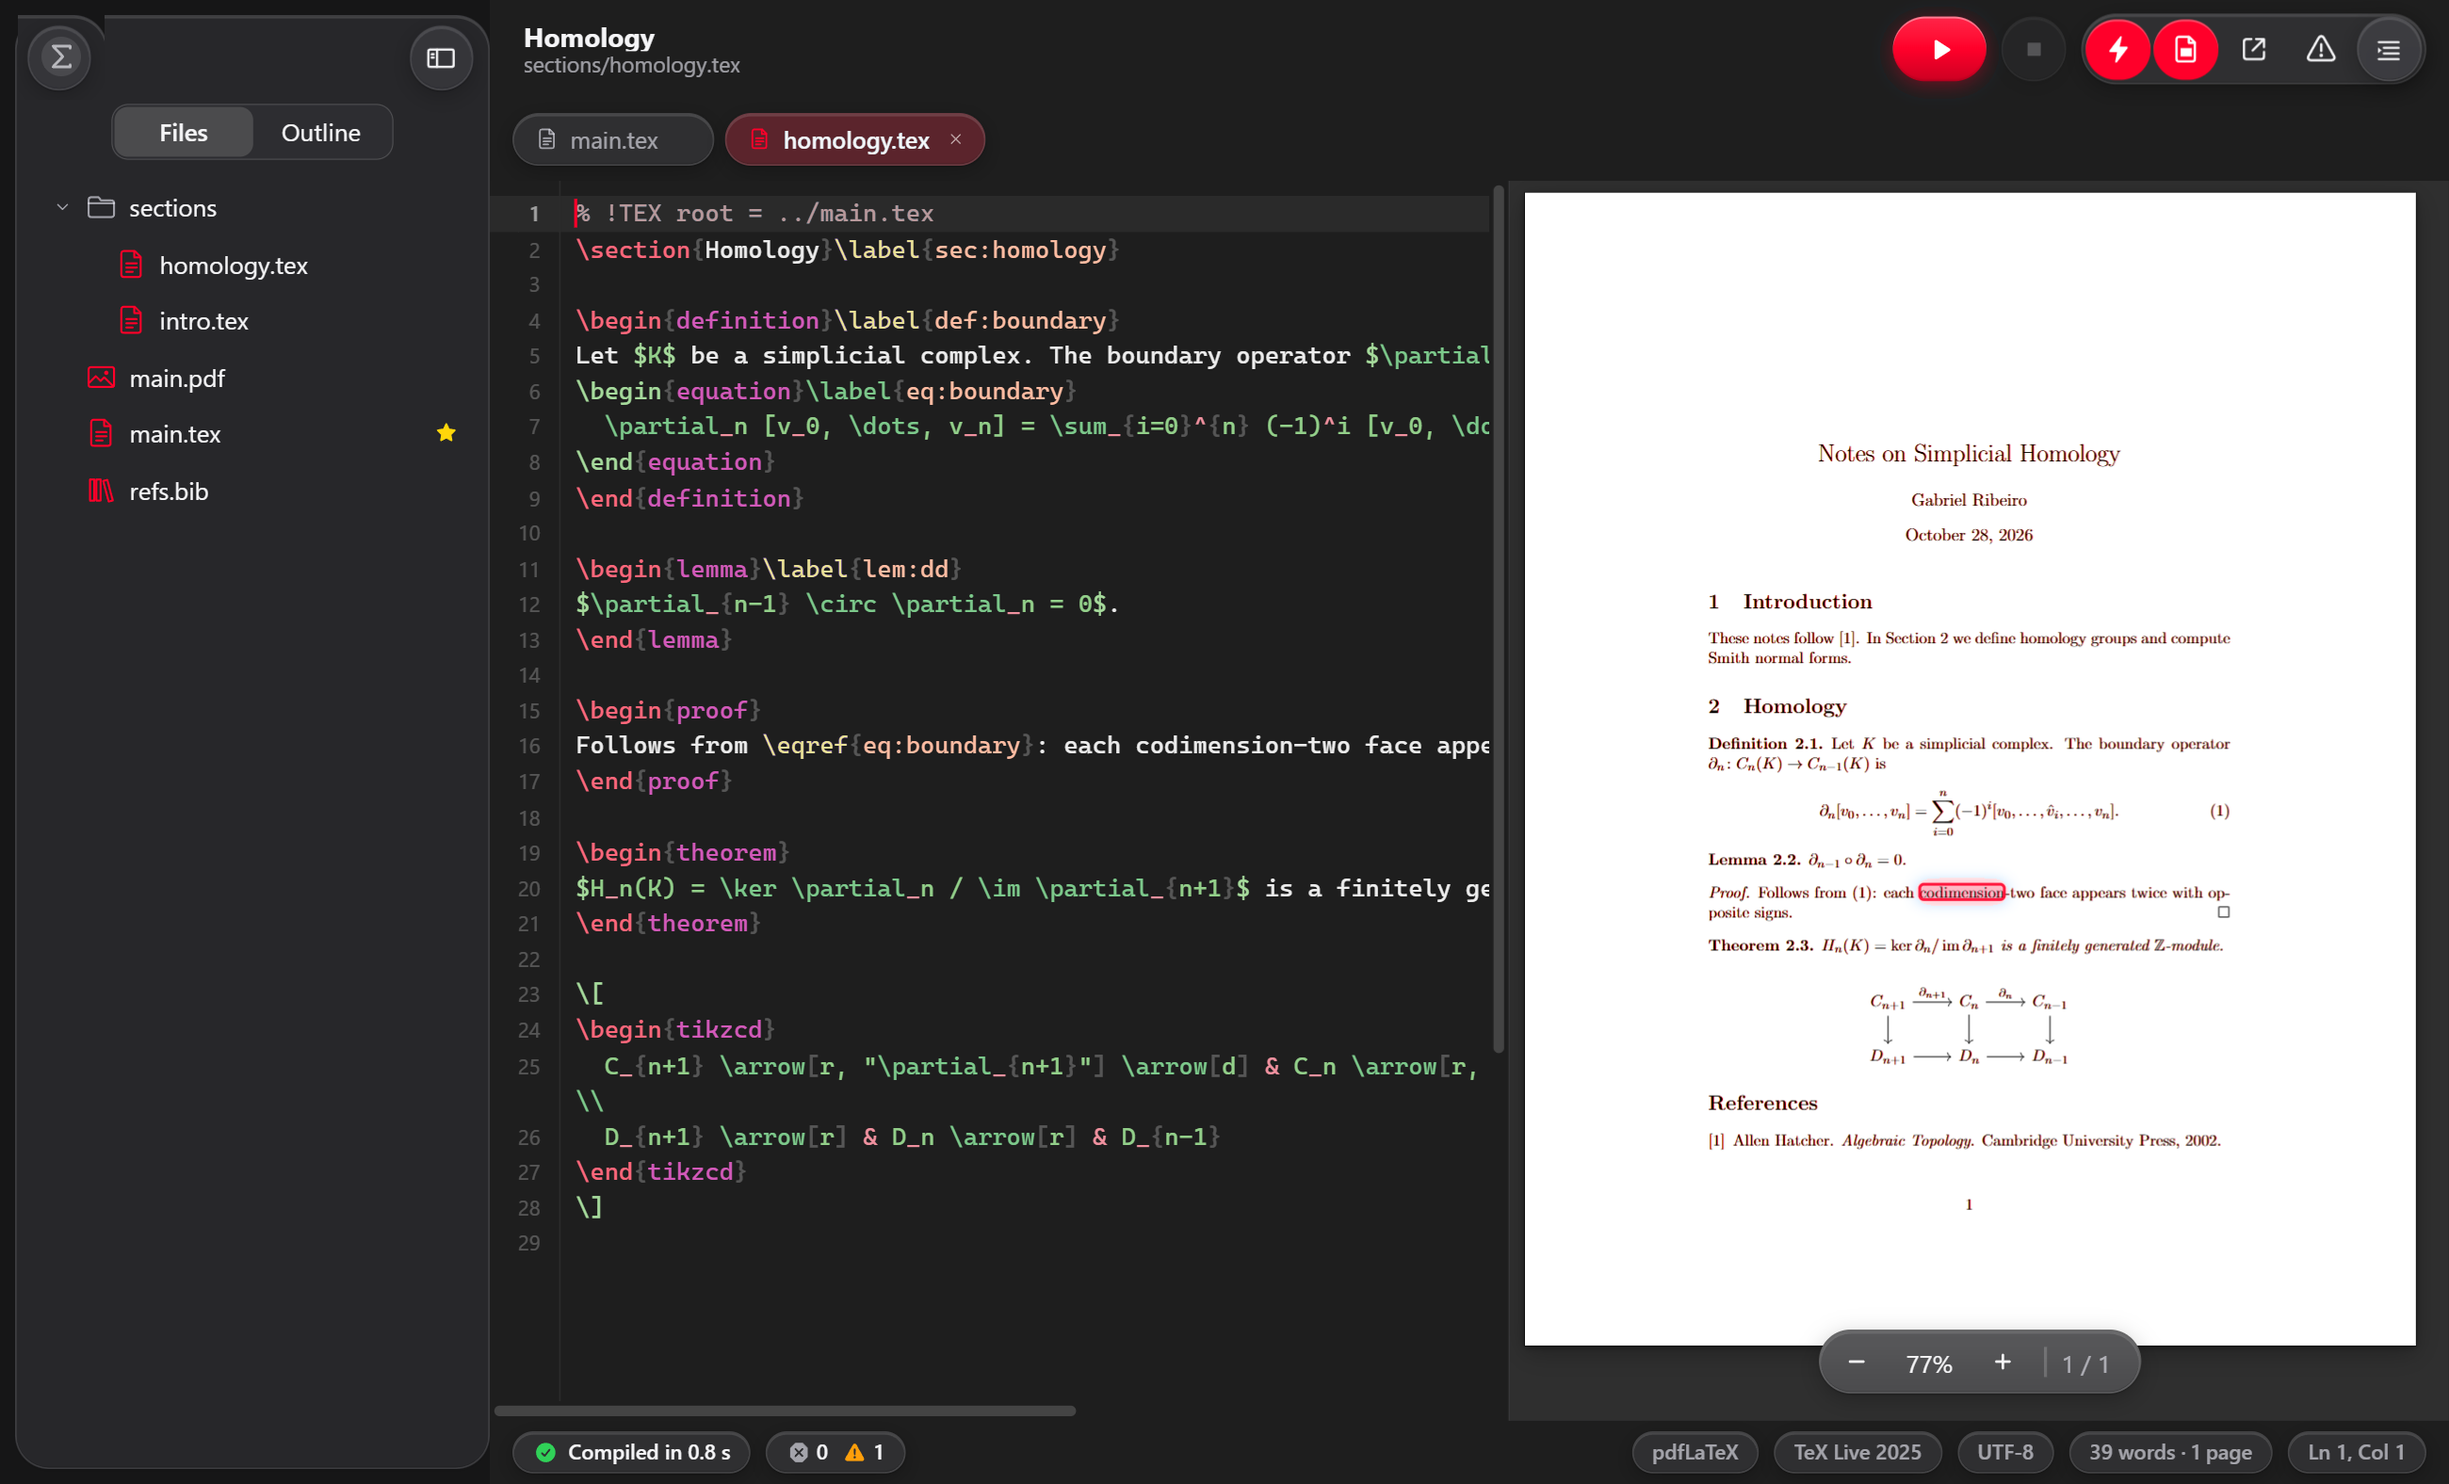
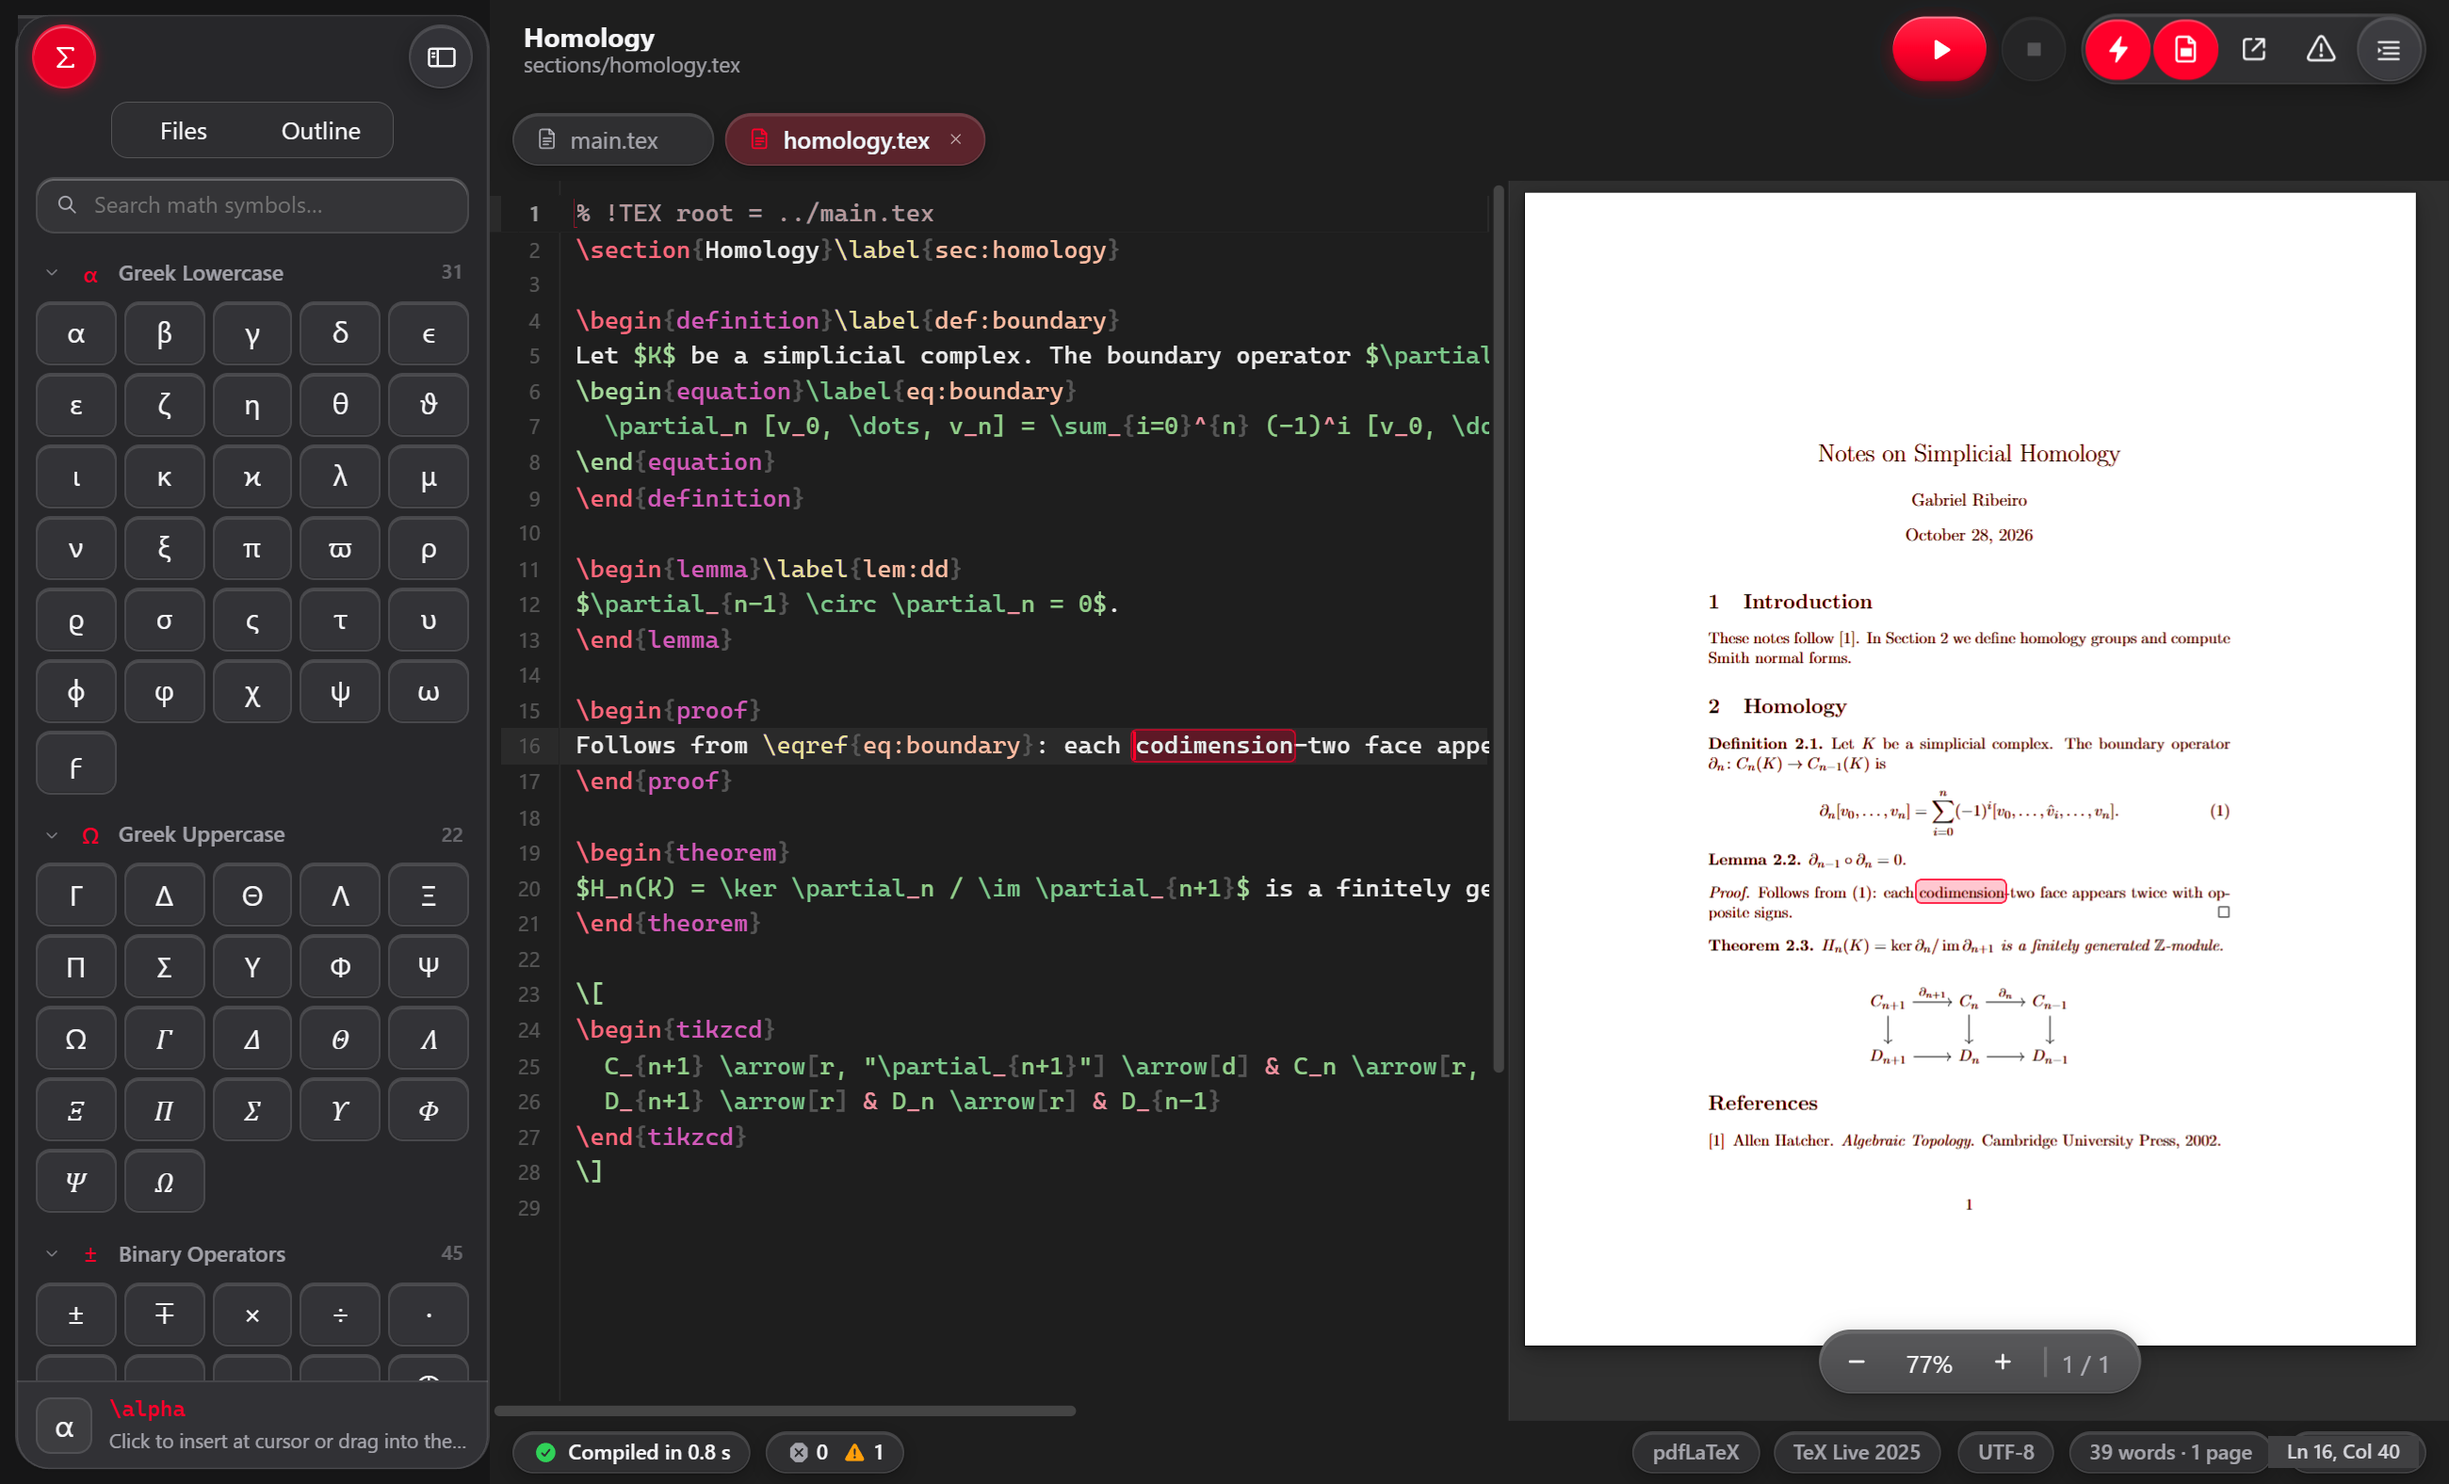
docs: show open symbols and exact line 16 sync cursor in sync shots, distribute and alternate split sections

diff --git a/docs/index.html b/docs/index.html
@@ -627,6 +627,8 @@ html.dark #sync .paper {
 
 /* ===== labels + detached PDF ===== */
 .split { display: grid; grid-template-columns: minmax(0, 5fr) minmax(0, 7fr); gap: 56px; align-items: center; }
+.split.split-flip { grid-template-columns: minmax(0, 7fr) minmax(0, 5fr); }
+.split.split-flip > figure { order: -1; }
 .split h2 { margin: 0; font: 600 var(--t-title)/1.1 var(--font-display); letter-spacing: -.008em; text-wrap: balance; }
 .split .block + .block { margin-top: 44px; }
 .split .block p { margin-top: 12px; color: var(--ink-2); max-width: 30rem; text-wrap: pretty; }
@@ -784,7 +786,8 @@ html.dark #sync .paper {
 /* ===== responsive ===== */
 @media (max-width: 1068px) {
   .more-list { grid-template-columns: repeat(2, minmax(0, 1fr)); }
-  .split { grid-template-columns: minmax(0, 1fr); gap: 44px; }
+  .split, .split.split-flip { grid-template-columns: minmax(0, 1fr); gap: 44px; }
+  .split.split-flip > figure { order: 0; }
   .build { grid-template-columns: minmax(0, 1fr); gap: 28px; }
 }
 @media (max-width: 834px) {
@@ -999,6 +1002,37 @@ html.dark #sync .paper {
     </div>
   </section>
 
+  <!-- ===== project templates ===== -->
+  <section class="tile" id="templates" aria-labelledby="templates-title">
+    <div class="wrap wrap-wide split">
+      <div>
+        <div class="block reveal">
+          <h2 id="templates-title" data-i18n="templates.title">Start from a ready-made template.</h2>
+          <p data-i18n="templates.text">Create a new project from nine built-in templates—Article, Article with Sections, Thesis, Beamer Presentation, Math Notes, Problem Set, Book, Report, and Poster—with preamble, bibliography, chapters, and structure ready to compile.</p>
+        </div>
+        <div class="block reveal" style="--stagger:1">
+          <h2 data-i18n="templates.metaTitle">See every file before creating.</h2>
+          <p data-i18n="templates.metaText">Fill in the title, author, and destination folder, inspect the exact files each template creates, and start writing immediately.</p>
+        </div>
+      </div>
+      <figure class="reveal" style="--stagger:1">
+        <img class="themed-shot shot-dark-pt" src="assets/screenshots/templates-dark-pt.png" width="1440" height="960" loading="lazy" decoding="async"
+             alt="Janela de Novo Projeto exibindo os nove modelos — incluindo Livro, Relatório e Pôster — e a lista de arquivos gerados."
+             data-i18n-attr="alt:shots.templatesAlt">
+        <img class="themed-shot shot-light-pt" src="assets/screenshots/templates-light-pt.png" width="1440" height="960" loading="lazy" decoding="async"
+             alt="Janela de Novo Projeto exibindo os nove modelos — incluindo Livro, Relatório e Pôster — e a lista de arquivos gerados."
+             data-i18n-attr="alt:shots.templatesAlt">
+        <img class="themed-shot shot-dark-en" src="assets/screenshots/templates-dark-en.png" width="1440" height="960" loading="lazy" decoding="async"
+             alt="The New Project dialog showing all nine templates—including Book, Report, and Poster—and the list of files each generates."
+             data-i18n-attr="alt:shots.templatesAlt">
+        <img class="themed-shot shot-light-en" src="assets/screenshots/templates-light-en.png" width="1440" height="960" loading="lazy" decoding="async"
+             alt="The New Project dialog showing all nine templates—including Book, Report, and Poster—and the list of files each generates."
+             data-i18n-attr="alt:shots.templatesAlt">
+        <figcaption data-i18n="shots.templates">The New Project dialog with all nine templates—including Book, Report, and Poster—and a preview of the generated files.</figcaption>
+      </figure>
+    </div>
+  </section>
+
   <!-- ===== sync (signature) ===== -->
   <section class="tile tile-dark" id="sync" aria-labelledby="sync-title">
     <div class="wrap wrap-wide">
@@ -1085,6 +1119,37 @@ html.dark #sync .paper {
              alt="GabeTeX jumping from a word in the PDF to the same word in the LaTeX source, which is briefly highlighted."
              data-i18n-attr="alt:shots.syncAlt">
         <figcaption data-i18n="shots.sync">In GabeTeX: a double-click in the PDF opened the section file at that word. With Follow cursor in PDF, the preview also keeps up as you move.</figcaption>
+      </figure>
+    </div>
+  </section>
+
+  <!-- ===== math & linguistic symbols ===== -->
+  <section class="tile" id="symbols" aria-labelledby="symbols-title">
+    <div class="wrap wrap-wide split split-flip">
+      <div>
+        <div class="block reveal">
+          <h2 id="symbols-title" data-i18n="symbols.title">Math &amp; linguistic symbols, always at hand.</h2>
+          <p data-i18n="symbols.lead">Open the Σ panel in the sidebar to browse 15 categories and 470 symbols—click to insert or drag straight into your code. Missing math delimiters and <code>\usepackage</code> imports are added automatically.</p>
+        </div>
+        <div class="block reveal" style="--stagger:1">
+          <h2 data-i18n="symbols.smartTitle">Built for math and prose alike.</h2>
+          <p data-i18n="symbols.smartText">Search by name, command, or package, insert <code>\log_{}</code> with its base subscript ready, and use Linguistic Symbols for PDF-style curly quotes placed cleanly in text mode.</p>
+        </div>
+      </div>
+      <figure class="reveal shot-symbols" style="--stagger:1">
+        <img class="themed-shot shot-dark-pt" src="assets/screenshots/symbols-open-dark-pt.png" width="664" height="1184" loading="lazy" decoding="async"
+             alt="A tabela de símbolos matemáticos e linguísticos aberta na barra lateral esquerda com busca e prévia do comando."
+             data-i18n-attr="alt:shots.symbolsOpenAlt">
+        <img class="themed-shot shot-light-pt" src="assets/screenshots/symbols-open-light-pt.png" width="664" height="1184" loading="lazy" decoding="async"
+             alt="A tabela de símbolos matemáticos e linguísticos aberta na barra lateral esquerda com busca e prévia do comando."
+             data-i18n-attr="alt:shots.symbolsOpenAlt">
+        <img class="themed-shot shot-dark-en" src="assets/screenshots/symbols-open-dark-en.png" width="664" height="1184" loading="lazy" decoding="async"
+             alt="The categorized math and linguistic symbols panel open in the left sidebar with search and live command preview."
+             data-i18n-attr="alt:shots.symbolsOpenAlt">
+        <img class="themed-shot shot-light-en" src="assets/screenshots/symbols-open-light-en.png" width="664" height="1184" loading="lazy" decoding="async"
+             alt="The categorized math and linguistic symbols panel open in the left sidebar with search and live command preview."
+             data-i18n-attr="alt:shots.symbolsOpenAlt">
+        <figcaption data-i18n="shots.symbolsOpen">Click Σ to open all 15 categories: search by name, command or package, preview required imports, and click or drag onto any line.</figcaption>
       </figure>
     </div>
   </section>
@@ -1428,68 +1493,6 @@ html.dark #sync .paper {
           <p data-i18n="compile.3t">When a package is missing, GabeTeX offers to install it with tlmgr and asks for your administrator password only when it has to.</p>
         </div>
       </div>
-    </div>
-  </section>
-
-  <!-- ===== math & linguistic symbols ===== -->
-  <section class="tile tile-alt" id="symbols" aria-labelledby="symbols-title">
-    <div class="wrap wrap-wide split">
-      <div>
-        <div class="block reveal">
-          <h2 id="symbols-title" data-i18n="symbols.title">Math &amp; linguistic symbols, always at hand.</h2>
-          <p data-i18n="symbols.lead">Open the Σ panel in the sidebar to browse 15 categories and 470 symbols—click to insert or drag straight into your code. Missing math delimiters and <code>\usepackage</code> imports are added automatically.</p>
-        </div>
-        <div class="block reveal" style="--stagger:1">
-          <h2 data-i18n="symbols.smartTitle">Built for math and prose alike.</h2>
-          <p data-i18n="symbols.smartText">Search by name, command, or package, insert <code>\log_{}</code> with its base subscript ready, and use Linguistic Symbols for PDF-style curly quotes placed cleanly in text mode.</p>
-        </div>
-      </div>
-      <figure class="reveal shot-symbols" style="--stagger:1">
-        <img class="themed-shot shot-dark-pt" src="assets/screenshots/symbols-open-dark-pt.png" width="664" height="1184" loading="lazy" decoding="async"
-             alt="A tabela de símbolos matemáticos e linguísticos aberta na barra lateral esquerda com busca e prévia do comando."
-             data-i18n-attr="alt:shots.symbolsOpenAlt">
-        <img class="themed-shot shot-light-pt" src="assets/screenshots/symbols-open-light-pt.png" width="664" height="1184" loading="lazy" decoding="async"
-             alt="A tabela de símbolos matemáticos e linguísticos aberta na barra lateral esquerda com busca e prévia do comando."
-             data-i18n-attr="alt:shots.symbolsOpenAlt">
-        <img class="themed-shot shot-dark-en" src="assets/screenshots/symbols-open-dark-en.png" width="664" height="1184" loading="lazy" decoding="async"
-             alt="The categorized math and linguistic symbols panel open in the left sidebar with search and live command preview."
-             data-i18n-attr="alt:shots.symbolsOpenAlt">
-        <img class="themed-shot shot-light-en" src="assets/screenshots/symbols-open-light-en.png" width="664" height="1184" loading="lazy" decoding="async"
-             alt="The categorized math and linguistic symbols panel open in the left sidebar with search and live command preview."
-             data-i18n-attr="alt:shots.symbolsOpenAlt">
-        <figcaption data-i18n="shots.symbolsOpen">Click Σ to open all 15 categories: search by name, command or package, preview required imports, and click or drag onto any line.</figcaption>
-      </figure>
-    </div>
-  </section>
-
-  <!-- ===== project templates ===== -->
-  <section class="tile" id="templates" aria-labelledby="templates-title">
-    <div class="wrap wrap-wide split">
-      <div>
-        <div class="block reveal">
-          <h2 id="templates-title" data-i18n="templates.title">Start from a ready-made template.</h2>
-          <p data-i18n="templates.text">Create a new project from nine built-in templates—Article, Article with Sections, Thesis, Beamer Presentation, Math Notes, Problem Set, Book, Report, and Poster—with preamble, bibliography, chapters, and structure ready to compile.</p>
-        </div>
-        <div class="block reveal" style="--stagger:1">
-          <h2 data-i18n="templates.metaTitle">See every file before creating.</h2>
-          <p data-i18n="templates.metaText">Fill in the title, author, and destination folder, inspect the exact files each template creates, and start writing immediately.</p>
-        </div>
-      </div>
-      <figure class="reveal" style="--stagger:1">
-        <img class="themed-shot shot-dark-pt" src="assets/screenshots/templates-dark-pt.png" width="1440" height="960" loading="lazy" decoding="async"
-             alt="Janela de Novo Projeto exibindo os nove modelos — incluindo Livro, Relatório e Pôster — e a lista de arquivos gerados."
-             data-i18n-attr="alt:shots.templatesAlt">
-        <img class="themed-shot shot-light-pt" src="assets/screenshots/templates-light-pt.png" width="1440" height="960" loading="lazy" decoding="async"
-             alt="Janela de Novo Projeto exibindo os nove modelos — incluindo Livro, Relatório e Pôster — e a lista de arquivos gerados."
-             data-i18n-attr="alt:shots.templatesAlt">
-        <img class="themed-shot shot-dark-en" src="assets/screenshots/templates-dark-en.png" width="1440" height="960" loading="lazy" decoding="async"
-             alt="The New Project dialog showing all nine templates—including Book, Report, and Poster—and the list of files each generates."
-             data-i18n-attr="alt:shots.templatesAlt">
-        <img class="themed-shot shot-light-en" src="assets/screenshots/templates-light-en.png" width="1440" height="960" loading="lazy" decoding="async"
-             alt="The New Project dialog showing all nine templates—including Book, Report, and Poster—and the list of files each generates."
-             data-i18n-attr="alt:shots.templatesAlt">
-        <figcaption data-i18n="shots.templates">The New Project dialog with all nine templates—including Book, Report, and Poster—and a preview of the generated files.</figcaption>
-      </figure>
     </div>
   </section>
 
